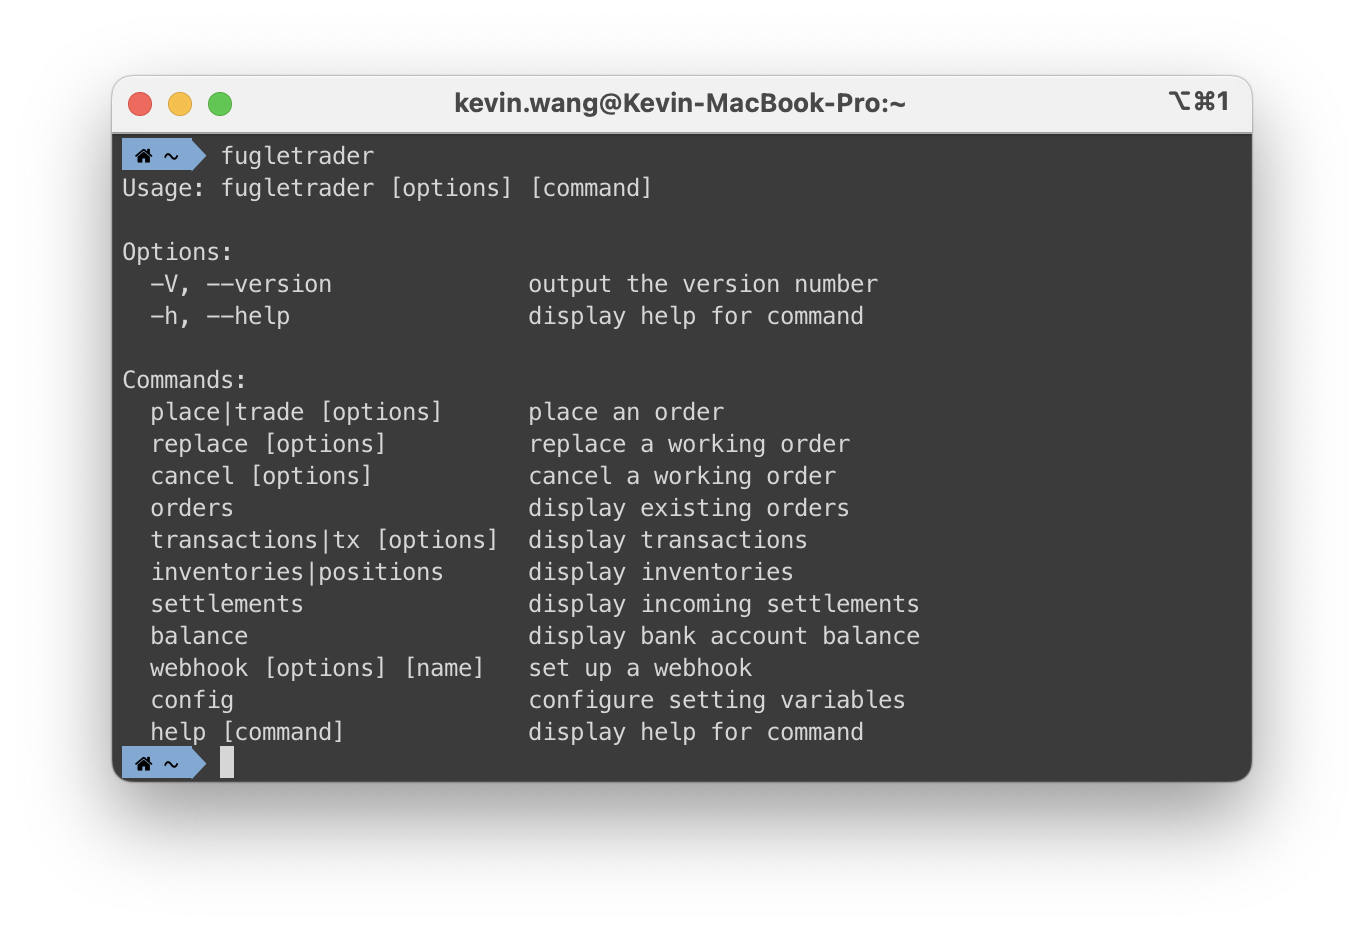
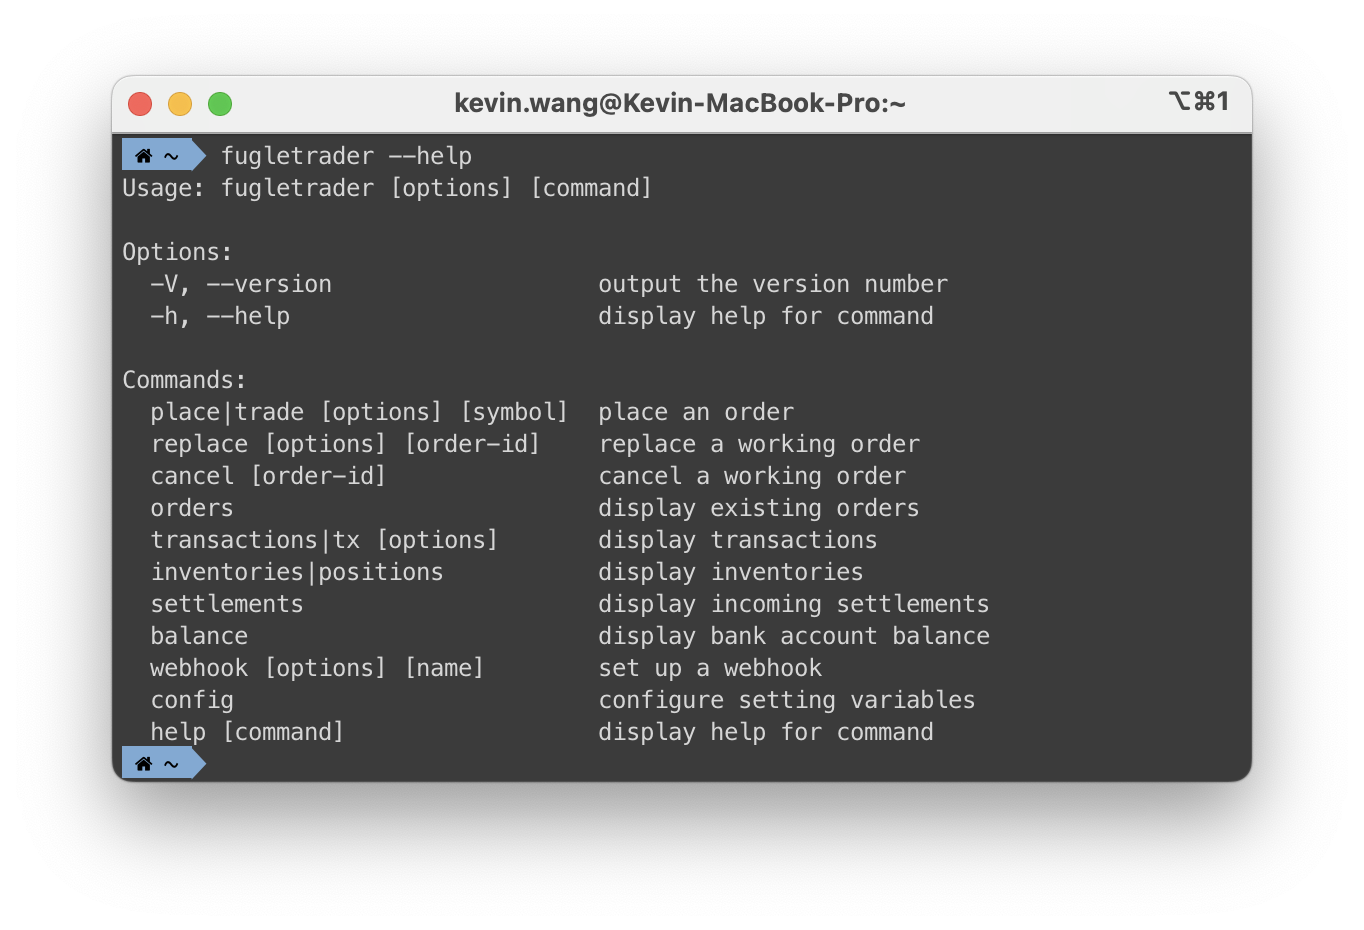
docs: update

diff --git a/apps/cli/webpack.config.js b/apps/cli/webpack.config.js
@@ -11,7 +11,19 @@ module.exports = {
       compiler: 'tsc',
       main: './src/main.ts',
       tsConfig: './tsconfig.app.json',
-      assets: ['./src/bin'],
+      assets: [
+        './src/bin',
+        {
+          glob: 'README.md',
+          input: './',
+          output: './'
+        },
+        {
+          glob: 'LICENSE',
+          input: '../../',
+          output: './'
+        }
+      ],
       optimization: false,
       outputHashing: 'none',
       generatePackageJson: true,

diff --git a/apps/docs/docs/cli-command-reference.md b/apps/docs/docs/cli-command-reference.md
@@ -4,42 +4,63 @@ sidebar_position: 4
 
 # CLI 指令參考
 
-## fugletrader trade
+## fugletrader place
 
 委託下單。
 
 ```bash
-fugletrader place [options]
-fugletrader trade [options]
+fugletrader place <symbol> [options] 
+fugletrader trade <symbol> [options]
 ```
 
-| Option                   | Description |
-| ------------------------ | ------------|
-| `-s, --symbol [string]`  | 股票代號 |
+#### Arguments
+
+| Argument | Description  |
+| -------- | ------------ |
+| `<symbol>` | 證券代號。 |
+
+#### Options
+
+| Option       | Description  |
+| ------------ | ------------ |
+| `-b, --buy`  | 下委買單。 |
+| `-s, --sell` | 下委賣單。 |
+
 
 ## fugletrader relace
 
 修改進行中的委託單。
 
 ```bash
-fugletrader replace [options] 
+fugletrader replace <order-id> [options] 
 ```
 
-| Option          | Description |
-| ----------------| ------------|
-| `-i, --id [string]` | 委託書號 |
+#### Arguments
+
+| Argument | Description  |
+| -------- | ------------ |
+| `<order-id>` | 委託書號。 |
+
+#### Options
+
+| Option                    | Description  |
+| ------------------------- | ------------ |
+| `-p, --price [number] `   | 設定委託單的新價格。 |
+| `-q, --quantity [number]` | 設定委託單的新數量。 |
 
 ## fugletrader cancel
 
 取消進行中的委託單。
 
 ```bash
-fugletrader cancel [options] 
+fugletrader cancel <order-id>
 ```
 
-| Option              | Description |
-| --------------------| ------------|
-| `-i, --id [string]` | 委託書號 |
+#### Arguments
+
+| Argument | Description  |
+| -------- | ------------ |
+| `<order-id>` | 委託書號。 |
 
 ## fugletrader orders
 
@@ -58,11 +79,13 @@ fugletrader transactions [options]
 fugletrader tx [options] 
 ```
 
-| Option                        | Description |
-| ----------------------------- | ------------|
-| `-d, --duration [duration]`   | 期間 |
-| `-start, --start-date [date]` | 開始日期 |
-| `-end, --end-date [date]`     | 結束日期 |
+#### Options
+
+| Option                        | Description  |
+| ----------------------------- | ------------ |
+| `-d, --duration [duration]`   | 指定時間範圍 (`0d`, `3d`, `1m`, `3m`)。 |
+| `-start, --start-date [date]` | 指定開始日期（`YYYY-MM-DD`）。 |
+| `-end, --end-date [date]`     | 指定結束日期（`YYYY-MM-DD`）。 |
 
 ## fugletrader inventories
 
@@ -94,8 +117,12 @@ fugletrader balance
 設定 Webhook。
 
 ```bash
-fugletrader webhook [options]
+fugletrader webhook [name]
 ```
+
+| Argument | Description  |
+| -------- | ------------ |
+| `<name>` | 訊號名稱。 |
 
 ## fugletrader config
 

diff --git a/apps/docs/blog/2024-09-30-fugletrade-v0-2-0/index.md b/apps/docs/blog/2024-09-30-fugletrade-v0-2-0/index.md
@@ -1,0 +1,34 @@
+---
+slug: 2024/09/30/fugletrader-v0-2-0
+title: FugleTrader v0.2.0
+authors: [kevin.wang]
+tags: [fugletrader, release]
+---
+
+**FugleTrader** 的新版本 **v0.2.0** 現已發布！本次更新引入了幾項新功能和改進，旨在提升用戶體驗和操作效率。
+
+<!--truncate-->
+
+## 新增功能
+
+### 下單指令選項調整
+
+我們對 `place` 指令的選項進行了調整，並改善了互動流程。這些變更將使得下單過程更加直觀，使用者的操作體驗也會更為順暢。
+
+### 修改委託功能增強
+
+在 `replace` 指令中，我們加入了能夠選擇符合條件的委託進行修改的功能，讓用戶可以更有效率地進行委託管理。
+
+### 取消委託功能增強
+
+我們已經更新了 `cancel` 指令，現在用戶可以方便地選擇符合條件的委託進行取消，讓管理和取消委託的過程變得更加簡便。
+
+### 交易明細選項驗證
+
+在 CLI 中，我們對 `transactions` 指令進行了改進，現在用戶在執行此指令時，可以得到選項的驗證。這將幫助用戶更輕鬆地識別可用的參數，減少操作錯誤。
+
+## 結語
+
+我們將持續努力，不斷優化產品功能，提升用戶體驗。如果您對新版本有任何建議或意見，歡迎隨時與我們聯繫。
+
+立即更新到 v0.2.0，體驗這些全新的功能吧！

diff --git a/apps/docs/blog/2024-09-28-fugletrade-v0-1-0/index.md b/apps/docs/blog/2024-09-28-fugletrade-v0-1-0/index.md
@@ -11,19 +11,19 @@ tags: [fugletrader, release]
 
 ## 核心特點
 
-### 1. 無縫的 API 整合
+### 無縫的 API 整合
 
 FugleTrader 提供了與富果 API 的無縫整合，使用者可以輕鬆連接 API，實現即時股票交易和資料存取。透過這樣的整合，使用者能夠即時進行下單操作，同時獲取最新的市場數據，掌握交易先機。
 
-### 2. 使用者友善的 CLI
+### 使用者友善的 CLI
 
 對於習慣使用命令列工具的使用者，FugleTrade 提供了一個簡單直觀的 CLI 介面。這讓交易與資料管理變得更加方便，無需繁瑣的操作，所有重要功能都能以幾個簡單的指令完成，大大提升了工作效率。
 
-### 3. LINE Notify 通知
+### LINE Notify 通知
 
 FugleTrader 也支援 [LINE Notify](https://notify-bot.line.me) 通知功能，讓使用者可以在交易過程中隨時取得即時的回報。無論是委託單狀態的更新，還是成交回報，使用者都可以透過 LINE 即時掌握交易動態，讓您不再錯過每一個關鍵時刻。
 
-### 4. ngrok 支援
+### ngrok 支援
 
 FugleTrader 內建 [ngrok](https://ngrok.com) 支援，這對於開發者來說尤為便利。透過 ngrok，您可以輕鬆測試 webhook 與第三方服務的整合，無需額外設置公開的伺服器。這為測試和開發過程提供了更大的靈活性和便利性。
 

diff --git a/apps/cli/README.md b/apps/cli/README.md
@@ -1,0 +1,23 @@
+# fugletrader-cli
+
+> Command-line interface that interacts with the FugleTrader API
+
+## Installation
+
+```sh
+$ npm install -g fugletrader-cli
+```
+
+## Usage
+
+```sh
+$ fugletrader --help
+```
+
+## Refereence
+
+[FugleTrader](https://chunkai1312.github.io/fugletrader/)
+
+## License
+
+MIT
